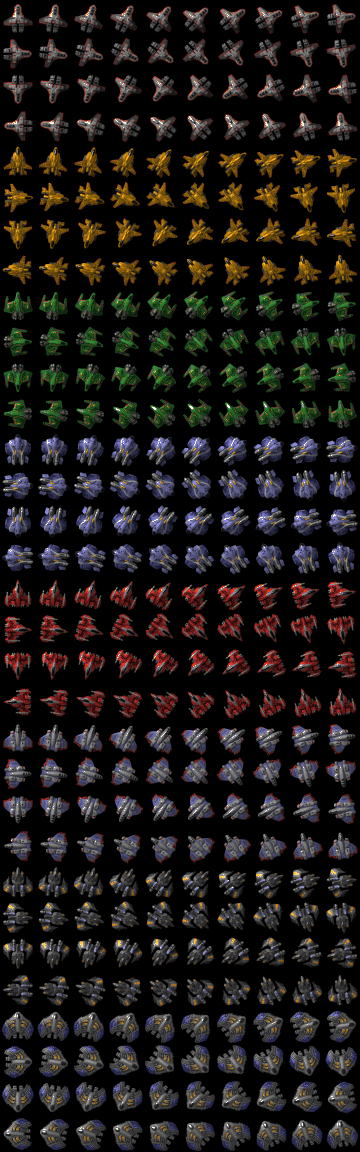
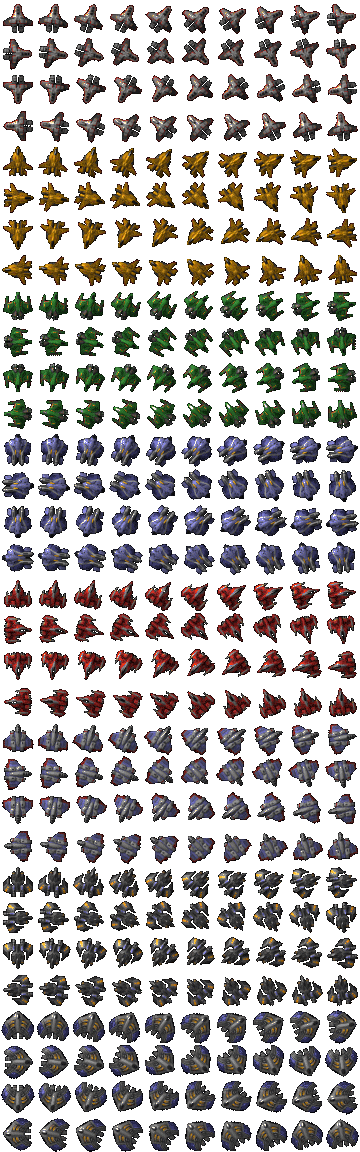
fixing some bugs that deal with cirlces and rotation
also made a transparent png

diff --git a/src/index.js b/src/index.js
@@ -22,6 +22,7 @@ const config = {
 
 const game = new Phaser.Game(config)
 let playerShip, cursors, rotationTime
+const FRAME_WIDTH = 36
 
 const SHIP_DETAILS = {
   boostStats: {
@@ -40,7 +41,7 @@ const SHIP_DETAILS = {
 }
 
 function preload() {
-  this.load.spritesheet("ships", shipsImg, {frameWidth: 36})
+  this.load.spritesheet("ships", shipsImg, {frameWidth: FRAME_WIDTH})
 }
 
 function create() {
@@ -50,6 +51,7 @@ function create() {
   playerShip.setCollideWorldBounds(true)
   playerShip.setBounce(0)
   playerShip.setMaxVelocity(SHIP_DETAILS.defaultStats.maxSpeed)
+  playerShip.setDepth(100)
   rotationTime = 0
 }
 
@@ -69,19 +71,38 @@ function update(time, delta) {
 
   if(cursors.up.isDown || cursors.down.isDown) {
     // there are 40 different frames for each ship. 360deg / 40 = 9deg for a frame.
-    // now to figure out how to add acceleration based on that. frame.name % 39 === direction facing
-    const directionFacing = playerShip.frame.name % 39
-    const degreeFacing = directionFacing * 9
+    const directionFacing = playerShip.frame.name % 40
+    const degreeFacing = (-directionFacing + 90) * 9 % 360
     const radianFacing = Phaser.Math.DegToRad(degreeFacing)
+
+    const degreeBackwards = (degreeFacing + 180) % 360
+    const radianBackwards = Phaser.Math.DegToRad(degreeBackwards)
 
     const defaultOrBoost = cursors.shift.isDown ? "boostStats" : "defaultStats"
     const baseAcceleration = SHIP_DETAILS[defaultOrBoost].acceleration
     const baseMaxSpeed = SHIP_DETAILS[defaultOrBoost].maxSpeed
 
-    const xAcceleration = Math.sin(radianFacing) * baseAcceleration * (cursors.down.isDown ? -1 : 1)
-    const yAcceleration = Math.cos(radianFacing) * baseAcceleration * (cursors.down.isDown ? 1 : -1)
+    const xAcceleration = Math.cos(radianFacing) * baseAcceleration * (cursors.down.isDown ? -1 : 1)
+    const yAcceleration = Math.sin(radianFacing) * baseAcceleration * (cursors.down.isDown ? 1 : -1)
     playerShip.setAcceleration(xAcceleration, yAcceleration)
     playerShip.setMaxVelocity(baseMaxSpeed)
+
+    const particles = this.add.particles('fire');
+
+    particles.createEmitter({
+      alpha: { start: 1, end: 0 },
+      scale: { start: 0.2, end: 0.8 },
+      speed: 20,
+      angle: { min: -85, max: -95 },
+      rotate: { min: -180, max: 180 },
+      lifespan: { min: 50, max: 200 },
+      blendMode: 'ADD',
+      frequency: 110,
+      maxParticles: 1,
+      x: playerShip.x + (FRAME_WIDTH / 2 - 4) * Math.cos(radianBackwards),
+      y: playerShip.y + (FRAME_WIDTH / 2 - 4) * Math.sin(radianFacing),
+    });
+
   } else {
     playerShip.setAcceleration(0, 0)
   }
